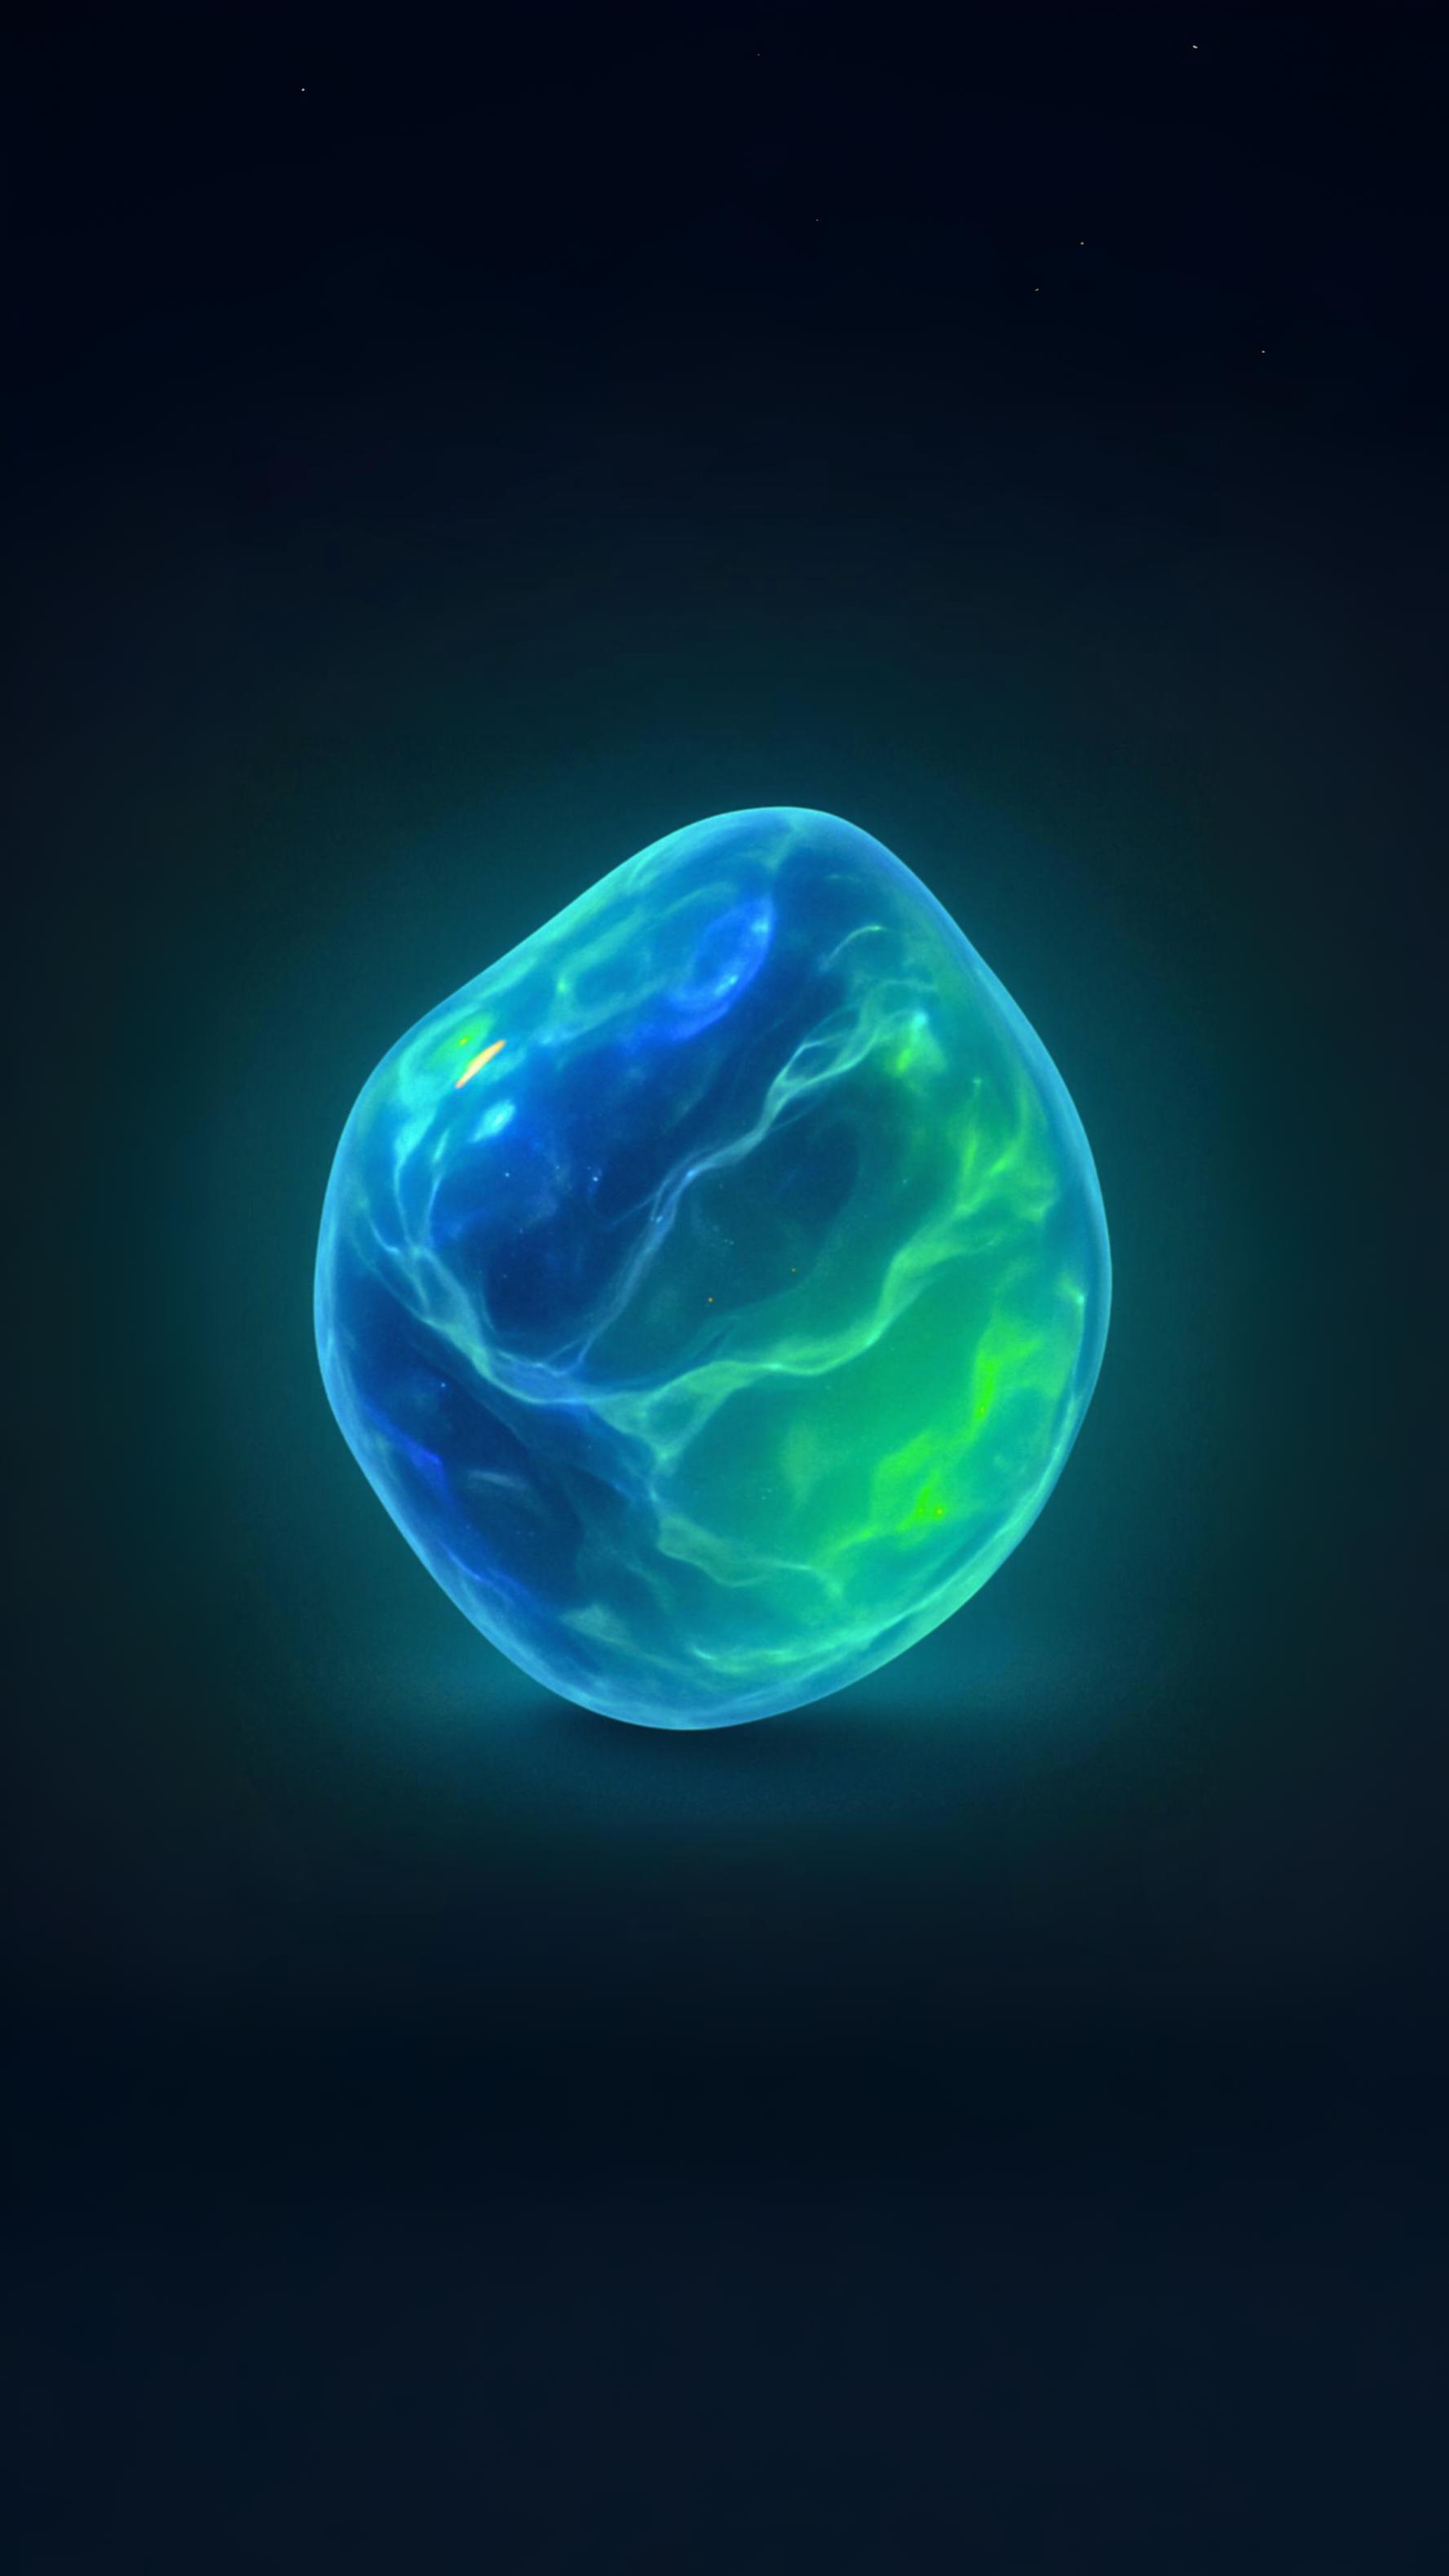
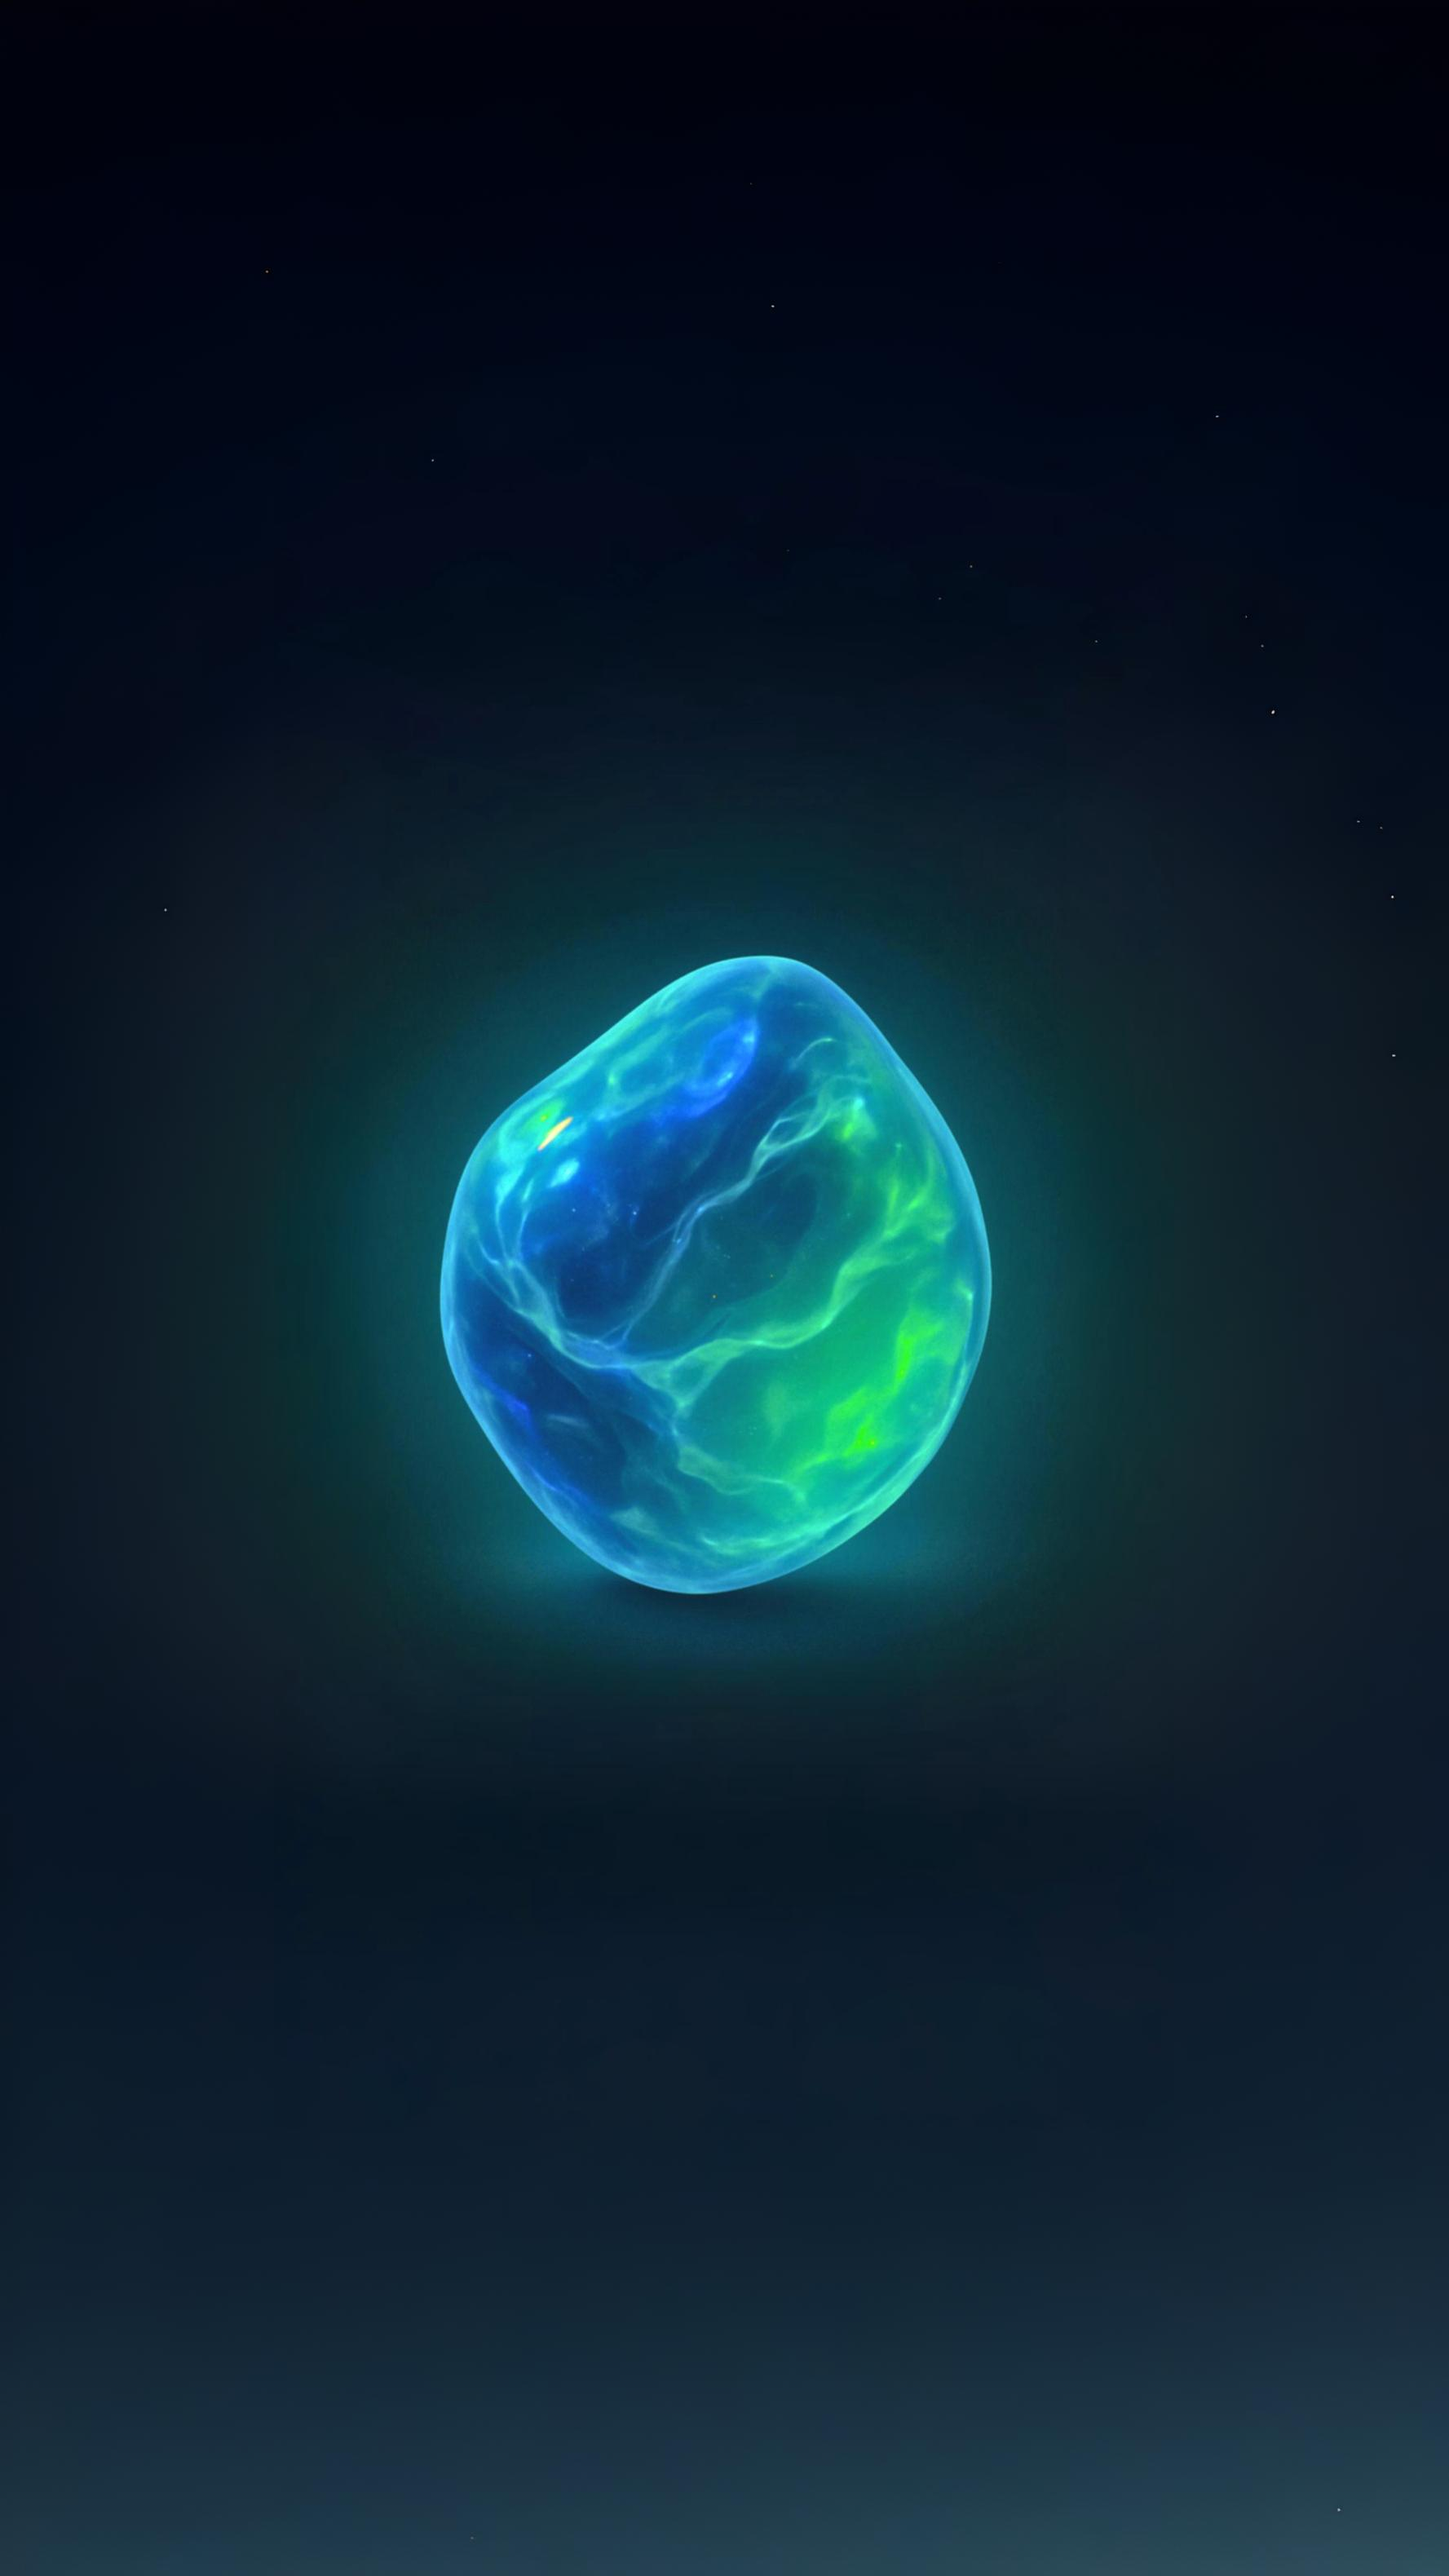
improved that first page cince it's the most important part of the app

Changed region(s): [[0.1238, 0.2792, 0.8357, 0.7135], [0.0, 0.8686, 1.0, 1.0]]

diff --git a/packages/app/features/onboarding/OnboardingScreen1.tsx b/packages/app/features/onboarding/OnboardingScreen1.tsx
@@ -3,7 +3,7 @@ import { View, StyleSheet, Text, ImageBackground } from 'react-native';
 import { OnboardingButton } from '../../components';
 
 // Import the image
-const backgroundImage = require('../../assets/9-16-icon.jpg');
+const backgroundImage = require('../../assets/9-16-icon-zoomed-out.jpg');
 
 interface OnboardingScreen1Props {
   onNext: () => void;
@@ -15,13 +15,13 @@ export const OnboardingScreen1: React.FC<OnboardingScreen1Props> = ({ onNext }) 
       <ImageBackground
         source={backgroundImage}
         style={styles.backgroundImage}
-        resizeMode="contain"
+        resizeMode="cover"
       >
         <View style={styles.overlay}>
           <View style={styles.content}>
             <Text style={styles.title}>Deepen your relationships through meaningful conversations</Text>
             <Text style={styles.subtitle}>
-              In a world of fleeting interactions, Exo empowers you to deepen your relationships through meaningful conversations
+              In a world of fleeting interactions, Exo empowers you to store meaningful conversations topics you'd like to have with your loved ones
             </Text>
             <OnboardingButton
               title="Show me how!!"
@@ -62,7 +62,7 @@ const styles = StyleSheet.create({
     // marginBottom: 16,
   },
   subtitle: {
-    fontSize: 18,
+    fontSize: 16,
     color: '#fff',
     textAlign: 'center',
     // marginBottom: 32,
@@ -70,5 +70,6 @@ const styles = StyleSheet.create({
   },
   button: {
     width: '100%',
+
   },
 });

diff --git a/packages/app/components/OnboardingButton.tsx b/packages/app/components/OnboardingButton.tsx
@@ -48,7 +48,7 @@ const styles = StyleSheet.create({
   },
   buttonText: {
     color: '#000',
-    fontSize: 16,
+    fontSize: 18,
     fontWeight: '600',
   },
 });
